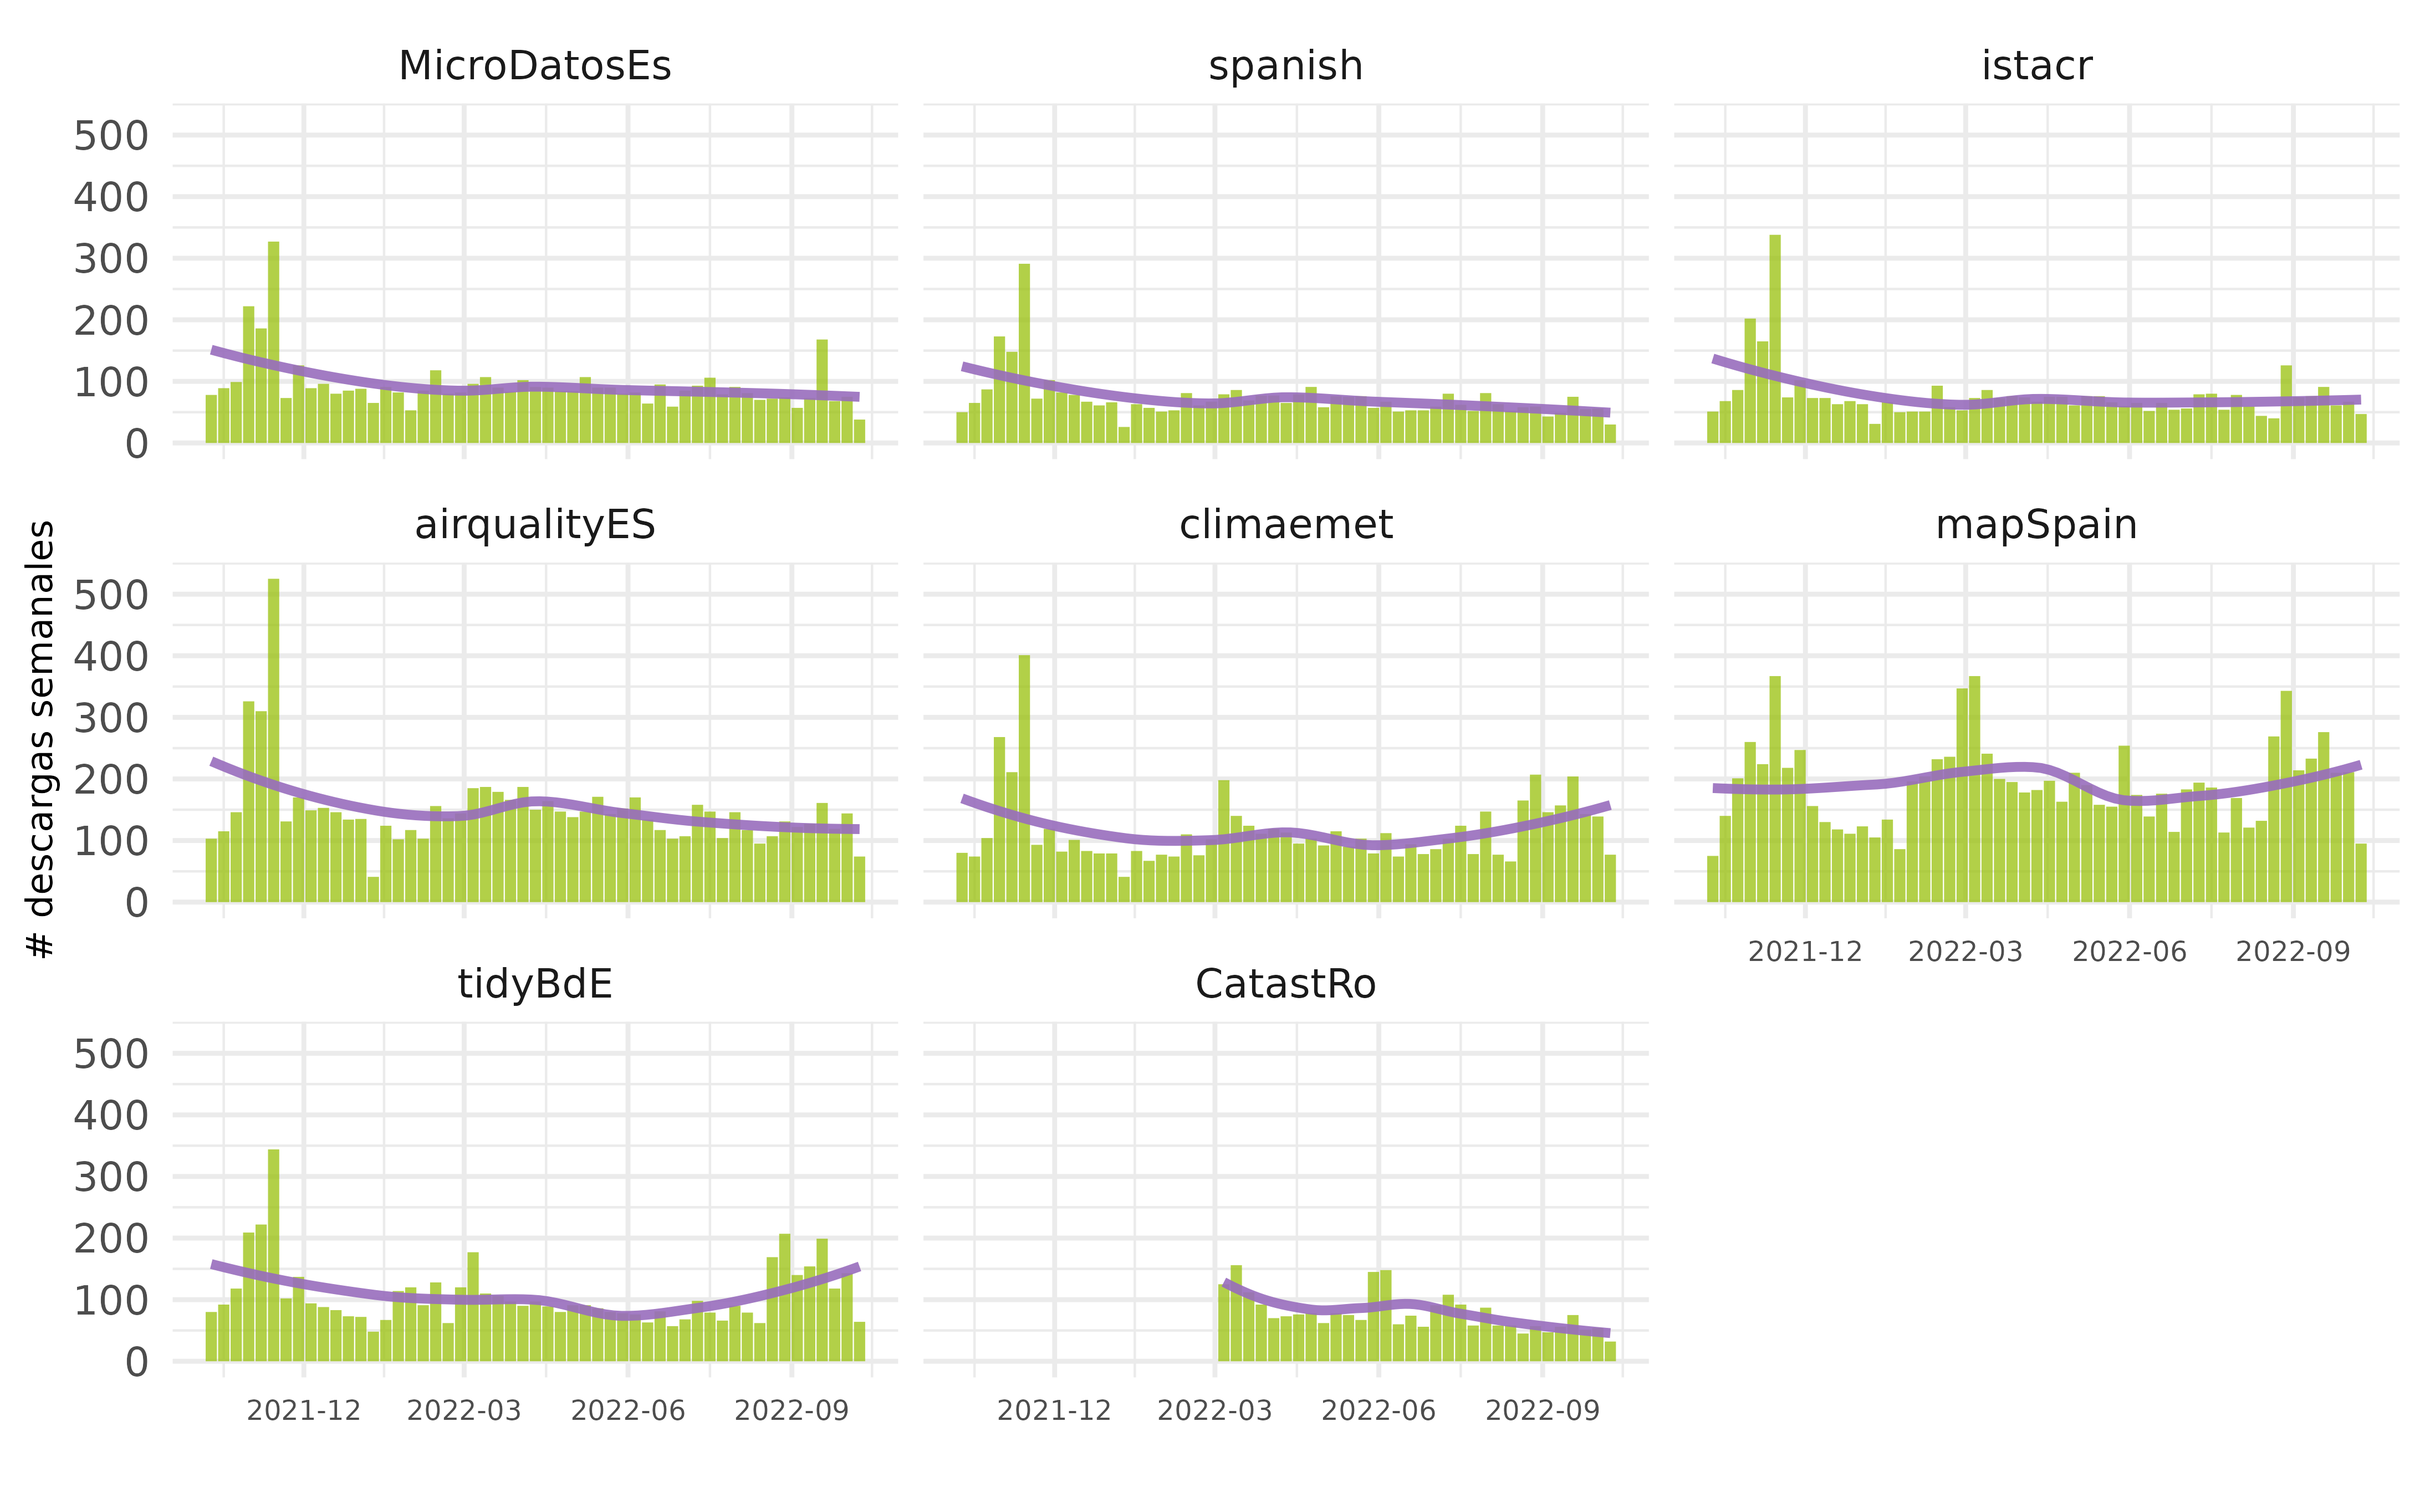
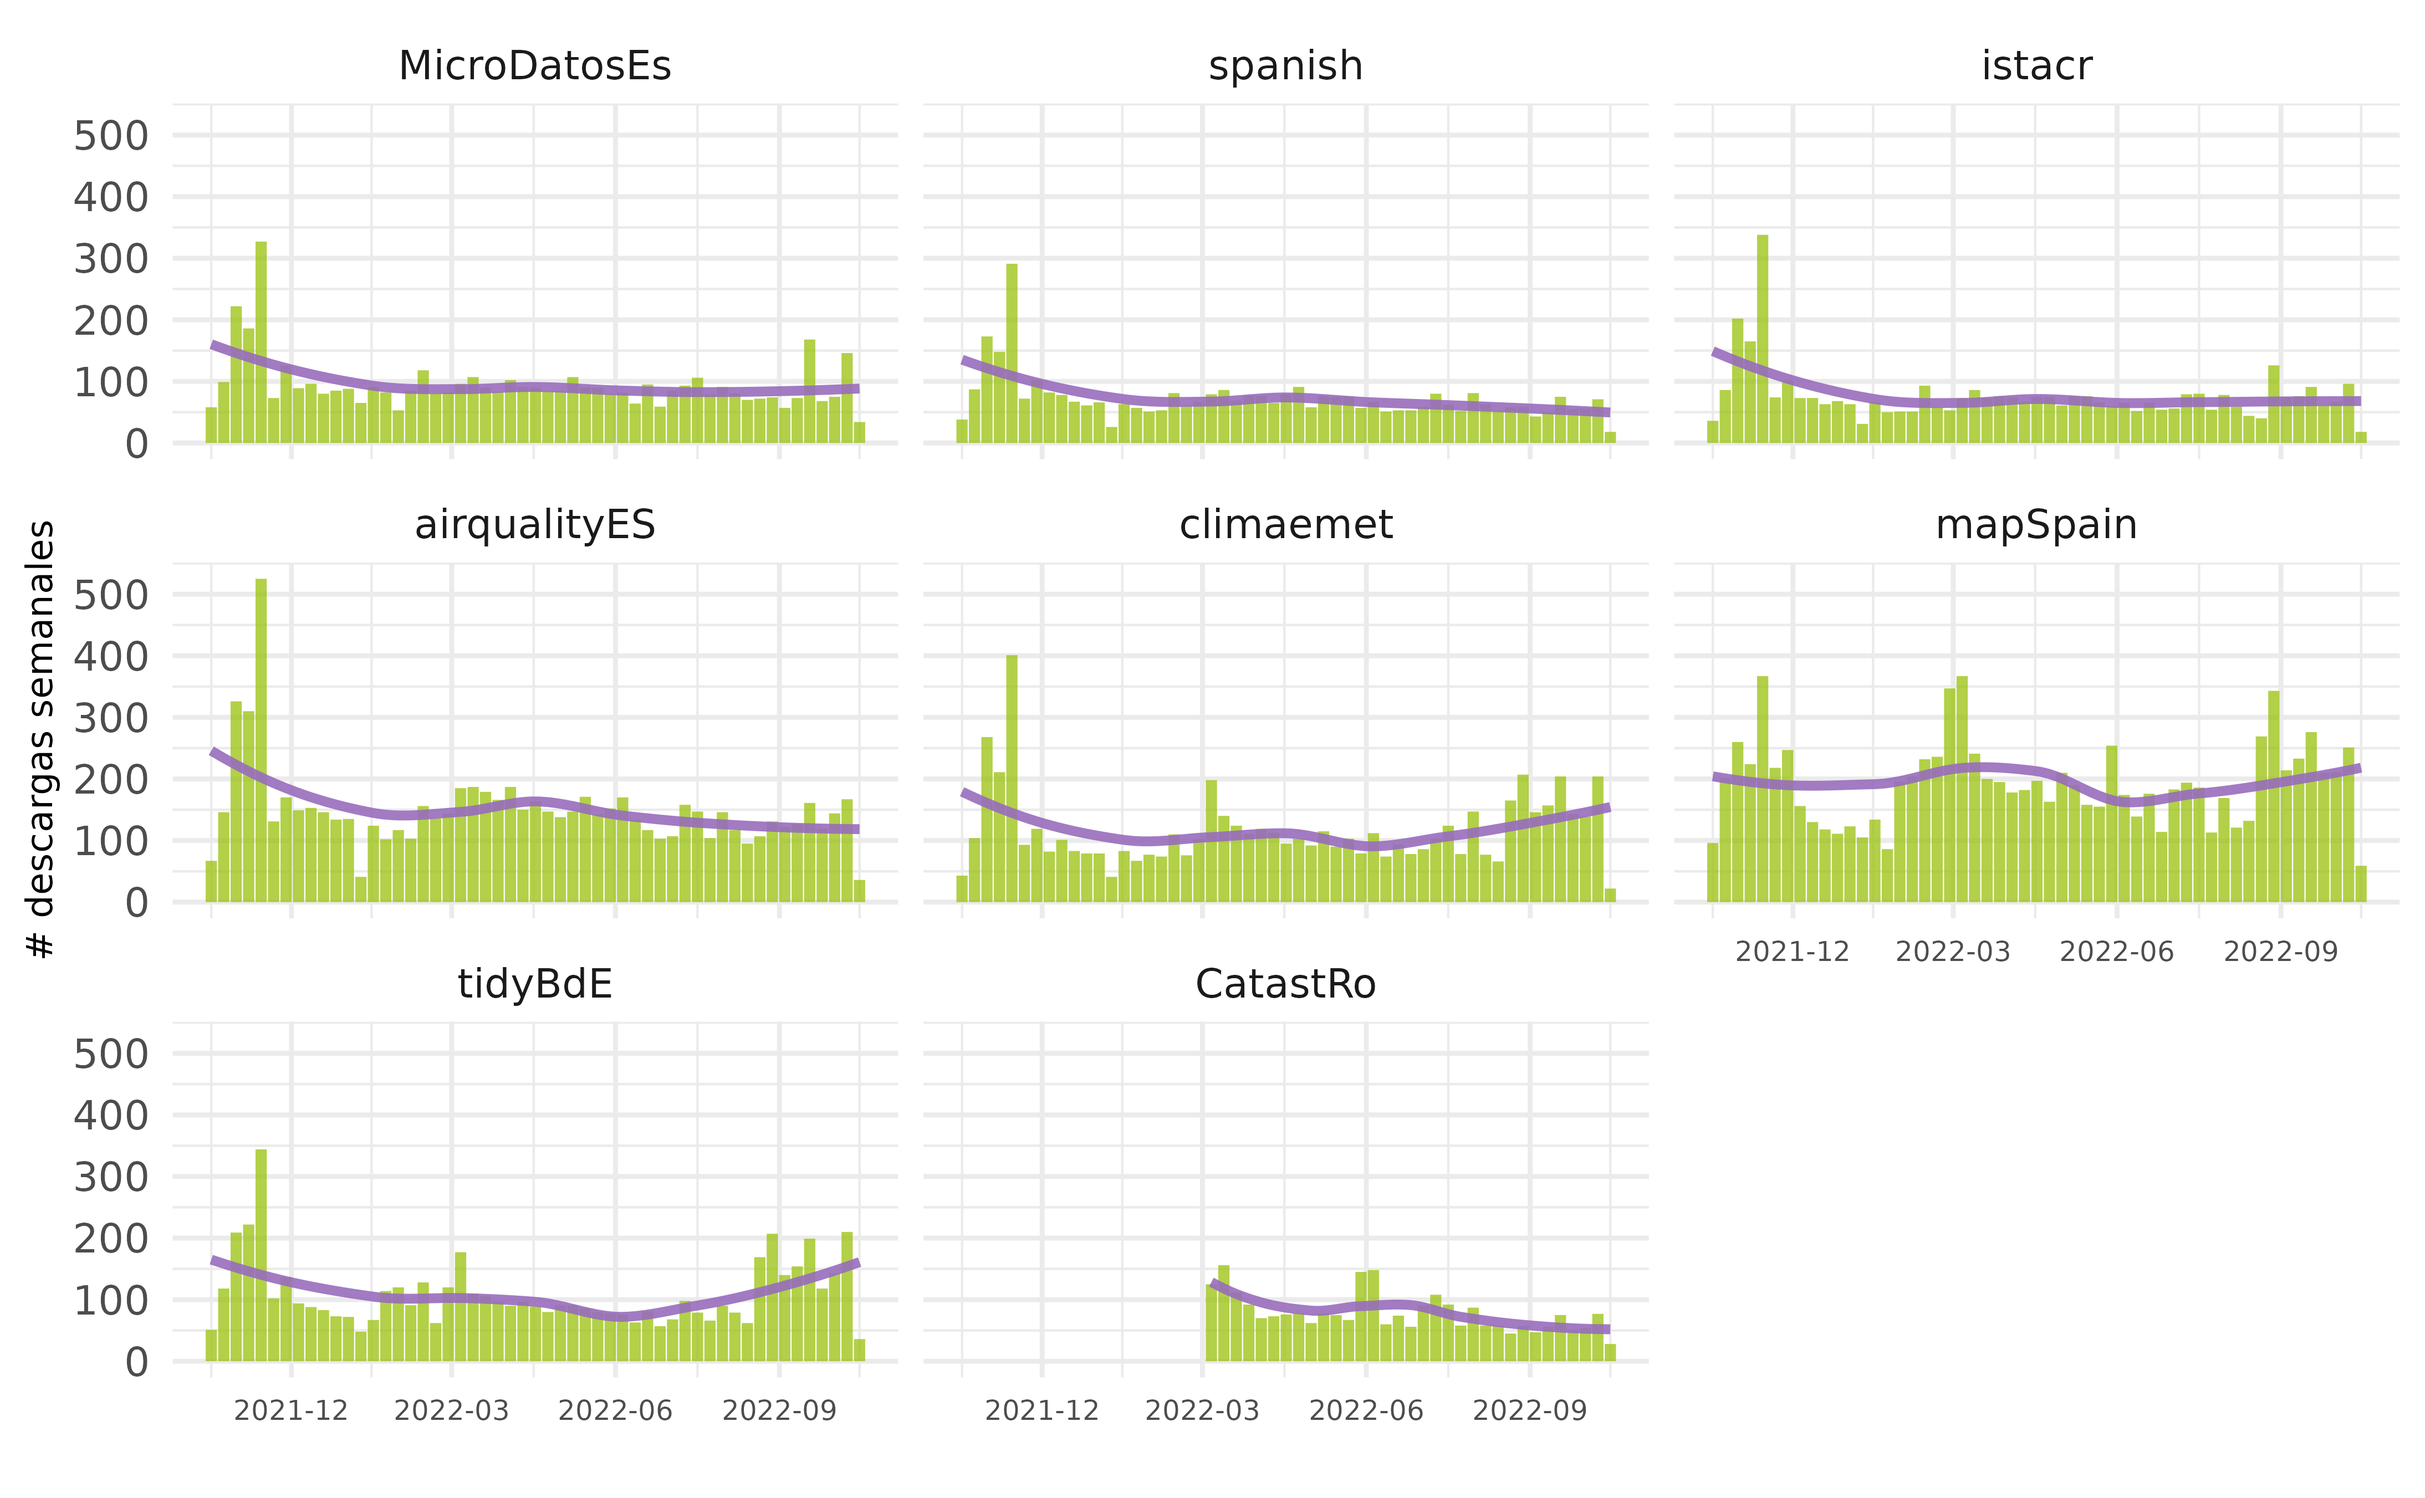
Built site for rostemplate: 0.1.1.9000@9bdd130

diff --git a/articles/descargas.html b/articles/descargas.html
@@ -100,7 +100,7 @@
 
     
     
-<p><em>Fecha de actualización: 06 Oct 2022</em></p>
+<p><em>Fecha de actualización: 13 Oct 2022</em></p>
 <p>Descargas de paquetes de rOpenSpain desde CRAN.</p>
 <div class="section level2">
 <h2 id="total-de-descargas">Total de descargas<a class="anchor" aria-label="anchor" href="#total-de-descargas"></a>
@@ -116,7 +116,7 @@
 <h2 id="datos">Datos<a class="anchor" aria-label="anchor" href="#datos"></a>
 </h2>
 <div id="station-table" class="reactable html-widget" style="width:auto;height:auto;"></div>
-<script type="application/json" data-for="station-table">{"x":{"tag":{"name":"Reactable","attribs":{"data":{"paquete":["CatastRo","tidyBdE","mapSpain","climaemet","airqualityES","istacr","spanish","MicroDatosEs"],"en CRAN":["2022-02-28","2021-04-08","2020-11-30","2020-07-07","2020-02-29","2019-04-24","2017-12-14","2013-10-21"],"media descargas diarias":[11.5,15.3,23.8,15.7,21.4,13,11.6,13.2],"ultimo dia":[10,8,17,14,19,11,7,10],"ultima semana":[49,134,201,139,132,73,46,70],"ultimo mes":[256,624,958,668,574,323,251,405],"ultimo año":[2516,5749,10152,6163,7965,4085,3864,5018]},"columns":[{"accessor":"paquete","name":"paquete","type":"character"},{"accessor":"en CRAN","name":"en CRAN","type":"Date"},{"accessor":"media descargas diarias","name":"media descargas diarias","type":"numeric"},{"accessor":"ultimo dia","name":"ultimo dia","type":"numeric"},{"accessor":"ultima semana","name":"ultima semana","type":"numeric"},{"accessor":"ultimo mes","name":"ultimo mes","type":"numeric"},{"accessor":"ultimo año","name":"ultimo año","type":"numeric"}],"filterable":true,"searchable":true,"defaultPageSize":10,"showPageSizeOptions":true,"pageSizeOptions":[10,25,50,100],"paginationType":"jump","showPageInfo":true,"minRows":1,"striped":true,"elementId":"station-table","dataKey":"5a6bb90966d964359c93171422bbb776"},"children":[]},"class":"reactR_markup"},"evals":[],"jsHooks":[]}</script>
+<script type="application/json" data-for="station-table">{"x":{"tag":{"name":"Reactable","attribs":{"data":{"paquete":["CatastRo","tidyBdE","mapSpain","climaemet","airqualityES","istacr","spanish","MicroDatosEs"],"en CRAN":["2022-02-28","2021-04-08","2020-11-30","2020-07-07","2020-02-29","2019-04-24","2017-12-14","2013-10-21"],"media descargas diarias":[11.5,15.5,23.9,15.8,21.3,13,11.6,13.2],"ultimo dia":[13,15,19,10,16,9,6,14],"ultima semana":[64,131,153,100,93,47,45,113],"ultimo mes":[260,644,928,644,576,304,252,463],"ultimo año":[2589,5810,10248,6201,7943,4069,3846,5051]},"columns":[{"accessor":"paquete","name":"paquete","type":"character"},{"accessor":"en CRAN","name":"en CRAN","type":"Date"},{"accessor":"media descargas diarias","name":"media descargas diarias","type":"numeric"},{"accessor":"ultimo dia","name":"ultimo dia","type":"numeric"},{"accessor":"ultima semana","name":"ultima semana","type":"numeric"},{"accessor":"ultimo mes","name":"ultimo mes","type":"numeric"},{"accessor":"ultimo año","name":"ultimo año","type":"numeric"}],"filterable":true,"searchable":true,"defaultPageSize":10,"showPageSizeOptions":true,"pageSizeOptions":[10,25,50,100],"paginationType":"jump","showPageInfo":true,"minRows":1,"striped":true,"elementId":"station-table","dataKey":"9d9a17ef74037ae0b4eb6c095f0bb87a"},"children":[]},"class":"reactR_markup"},"evals":[],"jsHooks":[]}</script>
 </div>
   </main><aside class="col-md-3"><nav id="toc"><h2>En esta página</h2>
     </nav></aside>
